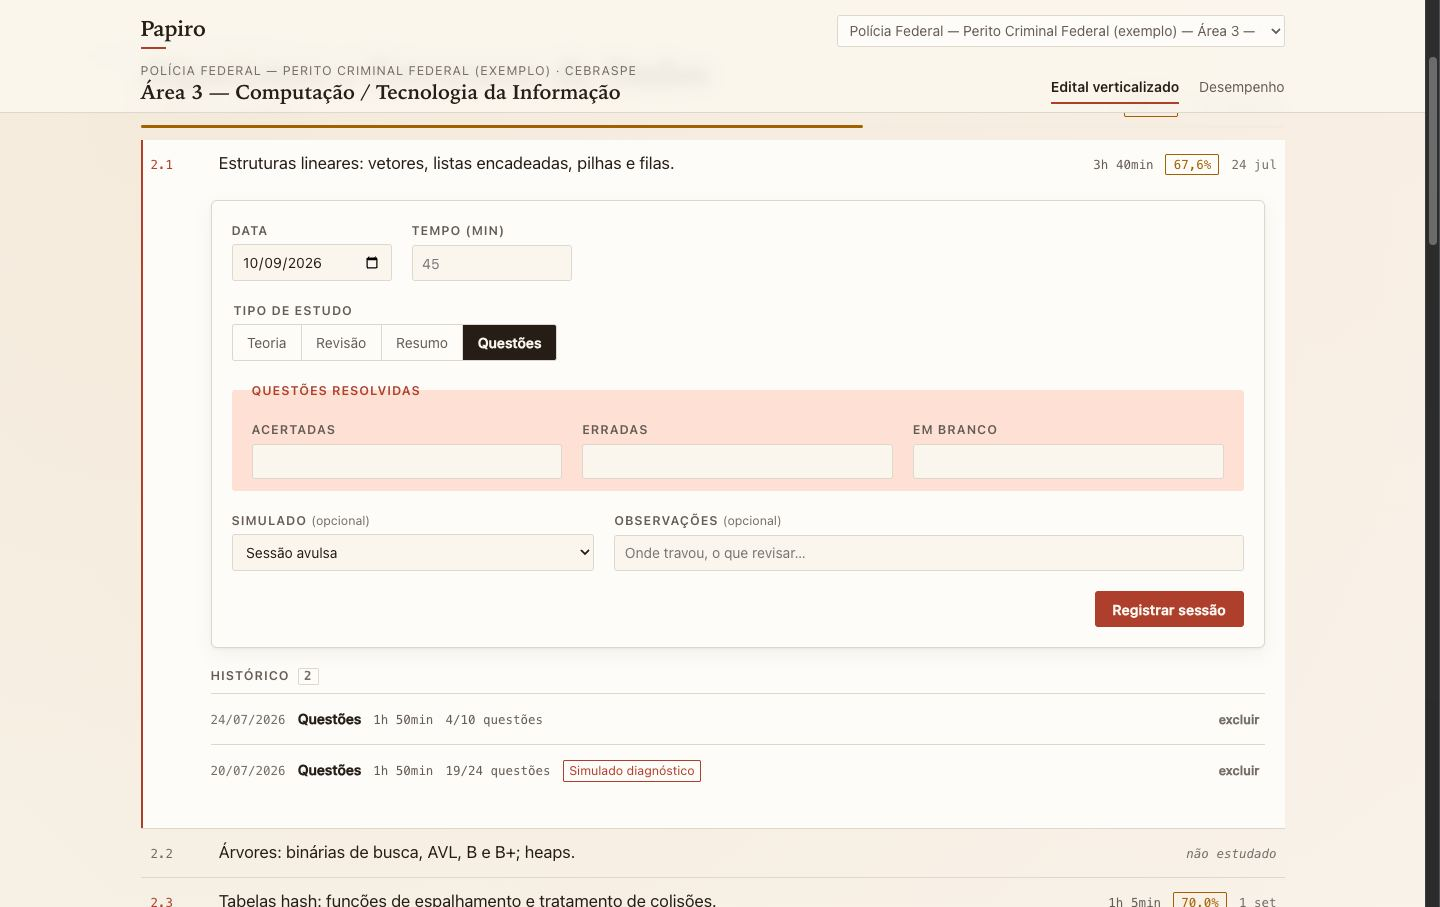
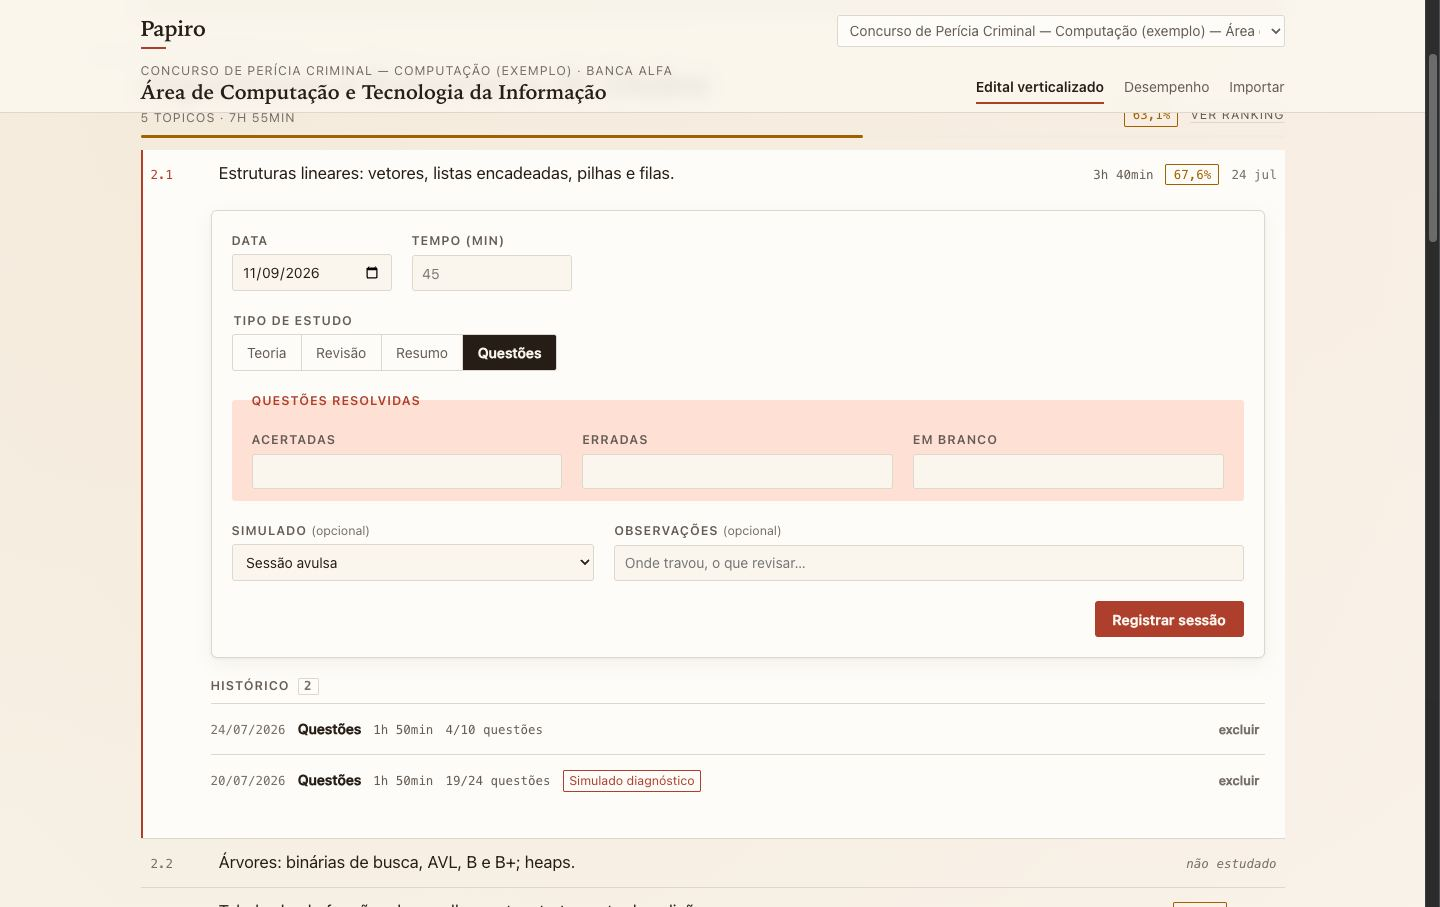
refactor: editais de exemplo deixam de citar orgaos e bancas reais
Um repositorio publico de portfolio nao precisa dizer para quais
concursos o autor estuda, e associar o nome de instituicoes reais a
itens que nao sao transcricao literal do edital delas e pior ainda.

- os dois editais de exemplo viram ficticios: "Concurso de Pericia
  Criminal — Computacao" e "Concurso de Analista de TI — Seguranca",
  com Banca Alfa e Banca Beta. Os arquivos de dados foram renomeados
  junto
- placeholders da tela de cadastro nao sugerem mais um orgao real
- testes e comentarios passam a usar os nomes genericos
- README explica o modelo sem citar concurso especifico, e diz que os
  editais do seed sao ficticios, nao "aproximacoes" de editais reais
- prints refeitos com os dados novos; o banco local e o da demonstracao
  publica foram repovoados

176 testes seguem passando.

diff --git a/api/prisma/data/edital-perito-computacao.ts b/api/prisma/data/edital-perito-computacao.ts
@@ -1,23 +1,23 @@
 import type { EditalSeed } from './tipos.js';
 
 /**
- * DADOS DE EXEMPLO — aproximacao de um edital real, escrita para exercitar o
- * modelo enquanto a lista definitiva nao entra. Substitua `itens` pelos itens
- * literais do edital publicado, mantendo o formato
- * [disciplina, codigoEdital, descricao].
+ * DADOS DE EXEMPLO — edital ficticio, escrito para exercitar o modelo. Nenhum
+ * orgao ou banca real e citado, e os itens nao sao transcricao de edital
+ * publicado. Para usar um edital de verdade, substitua `itens` mantendo o
+ * formato [disciplina, codigoEdital, descricao], ou use a tela de importacao.
  *
  * Repare que "Deteccao de intrusao (IDS/IPS) e correlacao de eventos (SIEM)"
- * aparece aqui com o codigo 7.5 e no edital da DATAPREV com outro codigo e
- * outra redacao. Sao dois registros distintos de proposito: mesmo assunto,
- * editais diferentes, bancas diferentes.
+ * aparece aqui com o codigo 7.5 e no outro edital de exemplo com codigo e
+ * redacao diferentes. Sao dois registros distintos de proposito: mesmo
+ * assunto, editais diferentes.
  */
-export const pfPeritoArea3: EditalSeed = {
+export const editalPeritoComputacao: EditalSeed = {
   concurso: {
-    nome: 'Polícia Federal — Perito Criminal Federal (exemplo)',
-    banca: 'CEBRASPE',
+    nome: 'Concurso de Perícia Criminal — Computação (exemplo)',
+    banca: 'Banca Alfa',
     dataProva: null,
   },
-  cargo: { nome: 'Área 3 — Computação / Tecnologia da Informação' },
+  cargo: { nome: 'Área de Computação e Tecnologia da Informação' },
   pesos: {
     'Segurança da Informação': 2,
     'Forense Computacional': 2,

diff --git a/web/src/components/layout/Cabecalho.test.tsx b/web/src/components/layout/Cabecalho.test.tsx
@@ -16,15 +16,15 @@ const CARGOS: Cargo[] = [
   {
     id: 7,
     concursoId: 1,
-    nome: 'Área 3',
-    concurso: { id: 1, nome: 'Polícia Federal', banca: 'CEBRASPE' },
+    nome: 'Área de Computação',
+    concurso: { id: 1, nome: 'Concurso Alfa', banca: 'Banca Alfa' },
     _count: { disciplinas: 8, simulados: 1 },
   },
   {
     id: 8,
     concursoId: 2,
-    nome: 'Perfil 5',
-    concurso: { id: 2, nome: 'DATAPREV', banca: 'Quadrix' },
+    nome: 'Perfil de Segurança',
+    concurso: { id: 2, nome: 'Concurso Beta', banca: 'Banca Beta' },
     _count: { disciplinas: 6, simulados: 0 },
   },
 ];
@@ -63,14 +63,14 @@ describe('Cabecalho', () => {
   test('dentro de um cargo, mostra concurso, banca e as abas', async () => {
     renderizar('/cargos/7/edital');
 
-    const titulo = await screen.findByRole('heading', { name: 'Área 3', level: 1 });
+    const titulo = await screen.findByRole('heading', { name: 'Área de Computação', level: 1 });
 
-    // Escopo no bloco de contexto: "Polícia Federal" tambem aparece como opcao
+    // Escopo no bloco de contexto: "Concurso Alfa" tambem aparece como opcao
     // do seletor de editais, e a busca solta encontraria as duas.
     const contexto = titulo.closest('.cabecalho-app__contexto');
 
-    expect(contexto).toHaveTextContent('Polícia Federal');
-    expect(contexto).toHaveTextContent('CEBRASPE');
+    expect(contexto).toHaveTextContent('Concurso Alfa');
+    expect(contexto).toHaveTextContent('Banca Alfa');
     expect(screen.getByRole('link', { name: 'Edital verticalizado' })).toBeInTheDocument();
   });
 

diff --git a/web/src/paginas/PaginaInicial.test.tsx b/web/src/paginas/PaginaInicial.test.tsx
@@ -14,15 +14,15 @@ const CARGOS: Cargo[] = [
   {
     id: 7,
     concursoId: 1,
-    nome: 'Área 3 — Computação',
-    concurso: { id: 1, nome: 'Polícia Federal', banca: 'CEBRASPE' },
+    nome: 'Área de Computação',
+    concurso: { id: 1, nome: 'Concurso Alfa', banca: 'Banca Alfa' },
     _count: { disciplinas: 8, simulados: 1 },
   },
   {
     id: 8,
     concursoId: 2,
-    nome: 'Perfil 5 — Segurança',
-    concurso: { id: 2, nome: 'DATAPREV', banca: null },
+    nome: 'Perfil de Segurança',
+    concurso: { id: 2, nome: 'Concurso Beta', banca: null },
     _count: { disciplinas: 6, simulados: 0 },
   },
 ];
@@ -35,8 +35,8 @@ describe('PaginaInicial', () => {
   test('lista um cartao por edital em disputa', async () => {
     renderComProvedores(<PaginaInicial />);
 
-    expect(await screen.findByText('Polícia Federal')).toBeInTheDocument();
-    expect(screen.getByText('DATAPREV')).toBeInTheDocument();
+    expect(await screen.findByText('Concurso Alfa')).toBeInTheDocument();
+    expect(screen.getByText('Concurso Beta')).toBeInTheDocument();
     expect(screen.getByText('8 disciplinas')).toBeInTheDocument();
   });
 

diff --git a/web/src/paginas/PaginaNovoEdital.tsx b/web/src/paginas/PaginaNovoEdital.tsx
@@ -52,7 +52,7 @@ export function PaginaNovoEdital() {
             <input
               className="campo__entrada"
               value={concurso}
-              placeholder="Ex.: Polícia Federal — Perito Criminal Federal"
+              placeholder="Ex.: Concurso de Analista de TI 2027"
               onChange={(evento) => setConcurso(evento.target.value)}
             />
           </label>
@@ -64,7 +64,7 @@ export function PaginaNovoEdital() {
             <input
               className="campo__entrada"
               value={banca}
-              placeholder="CEBRASPE"
+              placeholder="Nome da banca"
               onChange={(evento) => setBanca(evento.target.value)}
             />
           </label>
@@ -76,7 +76,7 @@ export function PaginaNovoEdital() {
             <input
               className="campo__entrada"
               value={cargo}
-              placeholder="Ex.: Área 3 — Computação"
+              placeholder="Ex.: Analista de Infraestrutura"
               onChange={(evento) => setCargo(evento.target.value)}
             />
           </label>

diff --git a/web/src/paginas/PaginaEdital.test.tsx b/web/src/paginas/PaginaEdital.test.tsx
@@ -14,17 +14,17 @@ vi.mock('../lib/api.js', async (importarOriginal) => {
 });
 
 const EDITAL: Edital = {
-  cargo: { id: 7, nome: 'Área 3' },
-  concurso: { id: 1, nome: 'Polícia Federal', banca: 'CEBRASPE', dataProva: null },
+  cargo: { id: 7, nome: 'Área de Computação' },
+  concurso: { id: 1, nome: 'Concurso Alfa', banca: 'Banca Alfa', dataProva: null },
   disciplinas: [
     {
       disciplinaId: 16,
       disciplina: 'Algoritmos',
       peso: 1,
       cargoId: 7,
-      cargo: 'Área 3',
+      cargo: 'Área de Computação',
       concursoId: 1,
-      concurso: 'Polícia Federal',
+      concurso: 'Concurso Alfa',
       totalSessoes: 2,
       totalMinutos: 120,
       acertos: 8,
@@ -69,9 +69,9 @@ const EDITAL: Edital = {
       disciplina: 'Redes',
       peso: 2,
       cargoId: 7,
-      cargo: 'Área 3',
+      cargo: 'Área de Computação',
       concursoId: 1,
-      concurso: 'Polícia Federal',
+      concurso: 'Concurso Alfa',
       totalSessoes: 0,
       totalMinutos: 0,
       acertos: 0,

diff --git a/api/prisma/seed.ts b/api/prisma/seed.ts
@@ -1,8 +1,8 @@
 import 'dotenv/config';
 import { PrismaPg } from '@prisma/adapter-pg';
 import { PrismaClient } from '../src/generated/prisma/client.js';
-import { dataprevPerfil5 } from './data/dataprev-perfil5.js';
-import { pfPeritoArea3 } from './data/pf-perito-area3.js';
+import { editalAnalistaSeguranca } from './data/edital-analista-seguranca.js';
+import { editalPeritoComputacao } from './data/edital-perito-computacao.js';
 import { gerarSessoesDemo } from './data/sessoes-demo.js';
 import type { EditalSeed, ItemEdital } from './data/tipos.js';
 
@@ -17,7 +17,7 @@ import type { EditalSeed, ItemEdital } from './data/tipos.js';
 //   npm run seed -- --demo -> importa e ainda gera historico de estudo ficticio
 // ---------------------------------------------------------------------------
 
-const EDITAIS: readonly EditalSeed[] = [pfPeritoArea3, dataprevPerfil5];
+const EDITAIS: readonly EditalSeed[] = [editalPeritoComputacao, editalAnalistaSeguranca];
 
 const connectionString = process.env['DATABASE_URL'];
 

diff --git a/api/src/modules/edital-crud.routes.test.ts b/api/src/modules/edital-crud.routes.test.ts
@@ -21,7 +21,7 @@ describe('ciclo de vida do edital', () => {
     // --- Concurso
     const concurso = await request(app)
       .post('/api/concursos')
-      .send({ nome: NOME_DO_CONCURSO, banca: 'CEBRASPE' })
+      .send({ nome: NOME_DO_CONCURSO, banca: 'Banca Alfa' })
       .expect(201);
     const concursoId = concurso.body.data.id;
 
@@ -29,9 +29,9 @@ describe('ciclo de vida do edital', () => {
 
     const renomeado = await request(app)
       .patch(`/api/concursos/${concursoId}`)
-      .send({ banca: 'FGV', dataProva: '2027-03-14' })
+      .send({ banca: 'Banca Beta', dataProva: '2027-03-14' })
       .expect(200);
-    expect(renomeado.body.data.banca).toBe('FGV');
+    expect(renomeado.body.data.banca).toBe('Banca Beta');
 
     // --- Cargo
     const cargo = await request(app)

diff --git a/api/prisma/data/edital-analista-seguranca.ts b/api/prisma/data/edital-analista-seguranca.ts
@@ -9,13 +9,13 @@ import type { EditalSeed } from './tipos.js';
  * isso Concurso e o nivel raiz do modelo: sem ele, os dois viravam um registro
  * so e o percentual de acerto de um edital contaminaria o do outro.
  */
-export const dataprevPerfil5: EditalSeed = {
+export const editalAnalistaSeguranca: EditalSeed = {
   concurso: {
-    nome: 'DATAPREV — Analista de Tecnologia da Informação (exemplo)',
-    banca: 'Quadrix',
+    nome: 'Concurso de Analista de TI — Segurança (exemplo)',
+    banca: 'Banca Beta',
     dataProva: null,
   },
-  cargo: { nome: 'Perfil 5 — Segurança da Informação' },
+  cargo: { nome: 'Perfil de Segurança da Informação' },
   pesos: {
     'Gestão de Segurança da Informação': 2,
     'Segurança de Redes': 1.5,

diff --git a/web/src/paginas/PaginaNovoEdital.test.tsx b/web/src/paginas/PaginaNovoEdital.test.tsx
@@ -35,7 +35,7 @@ function renderizar() {
 
 async function preencher(usuario: ReturnType<typeof userEvent.setup>) {
   await usuario.type(screen.getByLabelText('Concurso'), 'Tribunal de Justiça');
-  await usuario.type(screen.getByLabelText(/Banca/), 'FGV');
+  await usuario.type(screen.getByLabelText(/Banca/), 'Banca Alfa');
   await usuario.type(screen.getByLabelText('Cargo'), 'Analista de TI');
 }
 
@@ -71,7 +71,7 @@ describe('PaginaNovoEdital', () => {
 
     expect(api.post).toHaveBeenNthCalledWith(1, '/concursos', {
       nome: 'Tribunal de Justiça',
-      banca: 'FGV',
+      banca: 'Banca Alfa',
       dataProva: null,
     });
     expect(api.post).toHaveBeenNthCalledWith(2, '/cargos', {

diff --git a/api/src/modules/sessoes/sessoes.service.ts b/api/src/modules/sessoes/sessoes.service.ts
@@ -26,7 +26,7 @@ const SELECAO_PADRAO = {
 /**
  * Regra que o banco nao tem como impor sozinho: simulado e sessao precisam
  * pertencer ao mesmo cargo. Sem esta checagem seria possivel pendurar uma
- * sessao do edital da PF em um simulado da DATAPREV, e o consolidado do
+ * sessao de um edital em um simulado de outro, e o consolidado do
  * simulado passaria a somar questoes de outro concurso.
  */
 async function garantirSimuladoDoMesmoCargo(

diff --git a/web/src/paginas/PaginaDesempenho.test.tsx b/web/src/paginas/PaginaDesempenho.test.tsx
@@ -17,9 +17,9 @@ function disciplina(parcial: Partial<DesempenhoDisciplina>): DesempenhoDisciplin
     disciplina: 'Disciplina',
     peso: 1,
     cargoId: 7,
-    cargo: 'Área 3',
+    cargo: 'Área de Computação',
     concursoId: 1,
-    concurso: 'PF',
+    concurso: 'Concurso Alfa',
     totalSessoes: 3,
     totalMinutos: 180,
     acertos: 10,

diff --git a/web/src/paginas/PaginaImportar.test.tsx b/web/src/paginas/PaginaImportar.test.tsx
@@ -19,7 +19,7 @@ REDES
 
 const EDITAL_VAZIO = {
   cargo: { id: 37, nome: 'Analista' },
-  concurso: { id: 9, nome: 'TJ', banca: 'FGV', dataProva: null },
+  concurso: { id: 9, nome: 'Concurso Alfa', banca: 'Banca Alfa', dataProva: null },
   disciplinas: [],
 };
 
